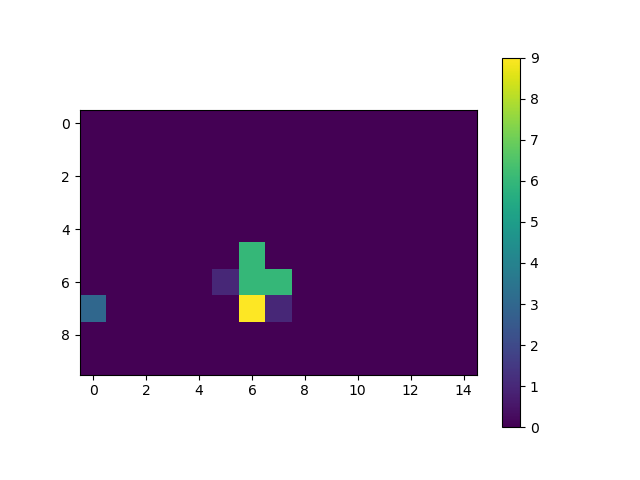
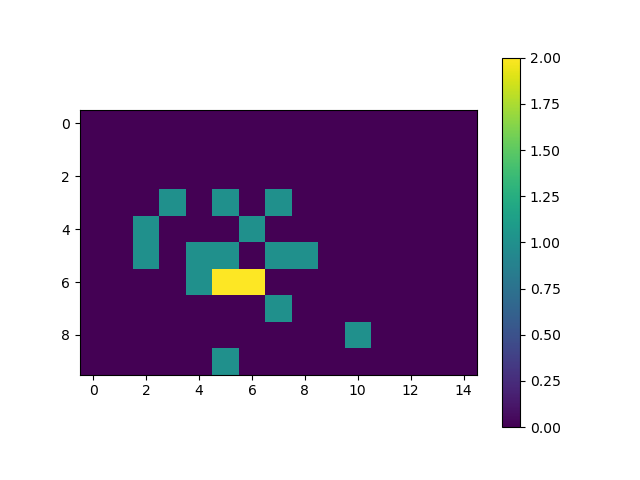
first ed visualisation

diff --git a/Agents/cats.py b/Agents/cats.py
@@ -17,14 +17,21 @@ class Cat(Agent):
         # self.colony = colony
         self.trapped = False
         self.colony_center = (6,6)
-        self.max_distance = 5
+        self.max_distance = 50
         self.hunger = 0
+    
+    @property
+    def hungry(self):
+        return self.hunger > self.HUNGER_THRESHOLD
 
-    def kittens(self):
+    def make_kittens(self):
         # hier moet een functie komen die nieuwe agents creeert 
         id = uuid4()
         cat = Cat(id, self.model)
+        # anders
+        cat.fertile = False
         self.model.schedule.add(cat)
+        # TODO place cat at posotion of parent
         self.model.grid.place_agent(cat, self.colony_center)
 
         # model.grid
@@ -41,16 +48,16 @@ class Cat(Agent):
             # mating
             elif self.fertile:
                 if type(agent) == Cat and agent is not self:
-                    if agent.fertile and random() < 0.01:
+                    if agent.fertile and random() < 0.010:
                         print("kitten!")
-                        self.kittens()
-                        pass
+                        self.make_kittens()
+                    pass
     
     # Movement 
     def move(self):
         # retrieve neighboring cells
         neighborhood = self.model.grid.get_neighborhood(
-            self.pos, moore=False, include_center=False)
+            self.pos, moore=True, include_center=False)
         possible_steps = []
         distances = []
 
@@ -62,34 +69,38 @@ class Cat(Agent):
                 possible_steps.append(step)
                 distances.append(distance)
 
-        # random walking
-        if self.hunger > self.HUNGER_THRESHOLD:
-            new_pos = self.random.choice(possible_steps)
-            self.model.grid.move_agent(self, new_pos)
-        # Normal wandering
-        else:
-            # calculate weights based on normal distribution
-            weights = []
-            for r in distances:
-                weight = 1 - NormalDist(mu=0, sigma=1).cdf(r)
+        
+        # calculate weights based on normal distribution
+        weights = []
+        for r in distances:
+            weight = NormalDist(mu=0, sigma=1).cdf(r)
+            if self.hunger > self.HUNGER_THRESHOLD:
+                # Away from colony
                 weights.append(weight)
+            else:
+                # Towards colony
+                weights.append(1 - weight)
 
-            # take weighted step
-            new_pos = self.random.choices(possible_steps, weights=weights, k=1)[0]
-            print(new_pos)
-            self.model.grid.move_agent(self, new_pos)
+
+        # take weighted step
+        new_pos = self.random.choices(possible_steps, weights=weights, k=1)[0]
+        print(new_pos)
+        self.model.grid.move_agent(self, new_pos)
 
 
     def step(self):
         # increase hunger and analyse location contents
-        self.hunger += 0.01
+        self.hunger += 0.05
         cell_contents = self.model.grid.get_cell_list_contents([self.pos])
         
         # no actions when trapped
         if self.trapped:
             self.trapped = False
+            return
+
         # interaction with other agents
-        elif len(cell_contents) > 1:
+        if len(cell_contents) > 1:
             self.interact(cell_contents)
+        
         # movement
         self.move()

diff --git a/colony-lyf.py b/colony-lyf.py
@@ -1,23 +1,66 @@
+from Agents.cats import Cat
+from Agents.homes import Home, Trap
 from Model.colonymodel import CatModel
 import numpy as np
 import matplotlib.pyplot as plt
+# from Agents.cats import Cat
+from mesa.visualization.modules import CanvasGrid
+from mesa.visualization.ModularVisualization import ModularServer
+
+def agent_portrayal(agent):
+    portrayal = {"Shape": "circle",
+                 "Color": "red",
+                 "Filled": "true",
+                 "Layer": 0,
+                 "r": 0.5}
+
+    if type(agent) == Cat:
+        portrayal["Color"] = "brown"
+
+        if agent.hungry:
+            portrayal["Color"] = "blue"
+
+    if type(agent) == Home:
+        portrayal["Shape"] = "square"
+
+    if type(agent) == Trap:
+        portrayal["Shape"] = "square"
+
+
+    return portrayal
+
 
 if __name__ == "__main__":
-    cats = 15
-    homes = 1
     width = 10
     height = 15
+    params = {
+        "cats": 15,
+        "homes": 10,
+        "width": width,
+        "height": height,
+    }
+    grid = CanvasGrid(agent_portrayal, width, height, 500, round(500*height/width))
 
-    model = CatModel(cats, homes, width, height)
-    for _ in range(100):
-        model.step()
+    server = ModularServer(CatModel,
+                       [grid],
+                       "Cat Model",
+                       params)
 
-    agent_counts = np.zeros((model.grid.width, model.grid.height))
-    for cell in model.grid.coord_iter():
-        cell_content, x, y = cell
-        agent_count = len(cell_content)
-        agent_counts[x][y] = agent_count
-    plt.imshow(agent_counts, interpolation="nearest")
-    plt.colorbar()
+    server.port = 8521 # The default
+    server.launch()
 
-    plt.savefig("density.png")
+    # model = CatModel(cats, homes, width, height)
+    # for _ in range(100):
+    #     model.step()
+
+    # agent_counts = np.zeros((model.grid.width, model.grid.height))
+    # for cell in model.grid.coord_iter():
+    #     cell_content, x, y = cell
+    #     cell_content = [x for x in cell_content if type(x) == Cat]
+    #     agent_count = len(cell_content)
+    #     agent_counts[x][y] = agent_count
+    
+    # plt.imshow(agent_counts, interpolation="nearest")
+    # plt.colorbar()
+
+    # plt.savefig("density.png")

diff --git a/Model/colonymodel.py b/Model/colonymodel.py
@@ -9,11 +9,12 @@ from uuid import uuid4
 
 class CatModel(Model):
     
-    def __init__(self, C, H, width, height):
+    def __init__(self, cats, homes, width, height):
         # super().__init_()
+        self.running = True
         self.colony_center = (round(width/2), round(height/2))
-        self.num_cats = C
-        self.num_homes = H
+        self.num_cats = cats
+        self.num_homes = homes
         self.grid = MultiGrid(width, height, True)
         self.schedule = BaseScheduler(self)
 

diff --git a/Agents/homes.py b/Agents/homes.py
@@ -33,4 +33,5 @@ class Home(Agent):
             self.num_food += random()*10
         if self.count % 30 == 0:
             for trap in self.traps:
+                # TODO random trap placement with maximum dist
                 self.model.grid.move_agent(trap,(4,6))
